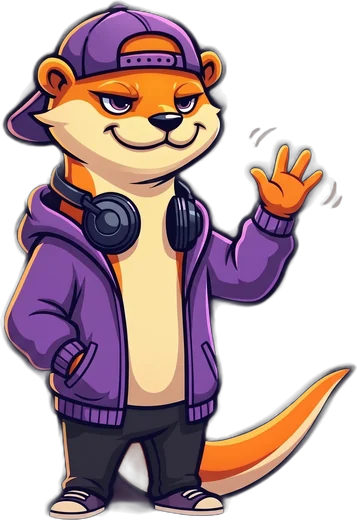
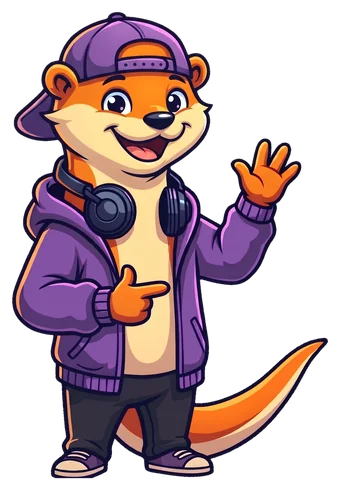
Mise à jour du site (2026-11-11)

diff --git a/index.html b/index.html
@@ -20,8 +20,8 @@
   <link rel="icon" href="favicon-32.png" type="image/png" sizes="32x32">
   <link rel="apple-touch-icon" href="apple-touch-icon.png">
   <link rel="preload" href="polices/archivo.woff2" as="font" type="font/woff2" crossorigin>
-  <link rel="preload" href="loutre/canape.webp" as="image">
-  <link rel="stylesheet" href="style.css?v=21">
+  <link rel="preload" href="loutre/accueil-1600.webp" as="image" imagesrcset="loutre/accueil-1000.webp 1000w, loutre/accueil-1600.webp 1600w, loutre/accueil-2400.webp 2400w" imagesizes="100vw">
+  <link rel="stylesheet" href="style.css?v=22">
   <script src="anim.js?v=3"></script>
 </head>
 <body>
@@ -41,7 +41,7 @@
 
   <main>
     <section class="hero">
-      <div class="sky" aria-hidden="true"><span class="moon"></span></div>
+      <img class="hero-bg" src="loutre/accueil-1600.webp" srcset="loutre/accueil-1000.webp 1000w, loutre/accueil-1600.webp 1600w, loutre/accueil-2400.webp 2400w" sizes="100vw" width="1600" height="893" fetchpriority="high" alt="La squad de loutres en pleine soirée jeux : la mascotte tend une manette pour t'inviter à jouer">
       <div class="wrap">
         <div class="hero-txt">
           <h1 class="load">Trouvez à quoi jouer <span class="hl">ensemble</span></h1>
@@ -51,11 +51,7 @@
             <a class="btn ghost" href="#fonctions">Voir les fonctionnalités</a>
           </div>
         </div>
-        <div class="scene">
-          <img class="o canape flip" src="loutre/canape.webp" alt="La loutre de La Squad, casquette violette et manette en main, sur son canapé" width="900" height="877">
-        </div>
       </div>
-      <svg class="skyline" viewBox="0 0 1400 220" preserveAspectRatio="xMidYMax slice" aria-hidden="true"><g class="far"><rect x="0" y="120" width="70" height="100"/><rect class="w2" x="8" y="152" width="6" height="9" rx="1"/><rect class="w3" x="8" y="170" width="6" height="9" rx="1"/><rect x="70" y="96" width="60" height="124"/><rect class="w3" x="110" y="146" width="6" height="9" rx="1"/><rect x="130" y="130" width="90" height="90"/><rect class="w2" x="138" y="144" width="6" height="9" rx="1"/><rect class="w1" x="154" y="180" width="6" height="9" rx="1"/><rect class="w1" x="202" y="198" width="6" height="9" rx="1"/><rect x="220" y="80" width="50" height="140"/><rect x="270" y="110" width="80" height="110"/><rect class="w2" x="310" y="124" width="6" height="9" rx="1"/><rect class="w2" x="278" y="160" width="6" height="9" rx="1"/><rect class="w3" x="326" y="178" width="6" height="9" rx="1"/><rect x="350" y="60" width="66" height="160"/><rect class="w1" x="390" y="74" width="6" height="9" rx="1"/><rect class="w3" x="358" y="146" width="6" height="9" rx="1"/><rect class="w2" x="374" y="164" width="6" height="9" rx="1"/><rect class="w3" x="374" y="182" width="6" height="9" rx="1"/><rect x="416" y="100" width="100" height="120"/><rect class="w2" x="472" y="132" width="6" height="9" rx="1"/><rect class="w2" x="472" y="150" width="6" height="9" rx="1"/><rect class="w1" x="424" y="186" width="6" height="9" rx="1"/><rect x="516" y="70" width="58" height="150"/><rect x="574" y="120" width="90" height="100"/><rect class="w1" x="614" y="152" width="6" height="9" rx="1"/><rect class="w3" x="582" y="188" width="6" height="9" rx="1"/><rect x="664" y="84" width="70" height="136"/><rect class="w2" x="672" y="116" width="6" height="9" rx="1"/><rect class="w3" x="704" y="116" width="6" height="9" rx="1"/><rect class="w3" x="704" y="152" width="6" height="9" rx="1"/><rect x="734" y="104" width="110" height="116"/><rect class="w1" x="822" y="136" width="6" height="9" rx="1"/><rect class="w2" x="742" y="154" width="6" height="9" rx="1"/><rect class="w1" x="742" y="190" width="6" height="9" rx="1"/><rect x="844" y="66" width="60" height="154"/><rect class="w1" x="868" y="134" width="6" height="9" rx="1"/><rect class="w3" x="868" y="188" width="6" height="9" rx="1"/><rect x="904" y="118" width="84" height="102"/><rect class="w1" x="976" y="132" width="6" height="9" rx="1"/><rect class="w2" x="944" y="150" width="6" height="9" rx="1"/><rect x="988" y="90" width="76" height="130"/><rect class="w1" x="1044" y="158" width="6" height="9" rx="1"/><rect class="w3" x="1028" y="194" width="6" height="9" rx="1"/><rect class="w3" x="1044" y="194" width="6" height="9" rx="1"/><rect x="1064" y="126" width="96" height="94"/><rect class="w2" x="1120" y="140" width="6" height="9" rx="1"/><rect class="w1" x="1120" y="158" width="6" height="9" rx="1"/><rect class="w1" x="1136" y="158" width="6" height="9" rx="1"/><rect class="w1" x="1136" y="194" width="6" height="9" rx="1"/><rect x="1160" y="100" width="64" height="120"/><rect class="w2" x="1184" y="114" width="6" height="9" rx="1"/><rect class="w3" x="1200" y="114" width="6" height="9" rx="1"/><rect x="1224" y="74" width="90" height="146"/><rect class="w1" x="1248" y="88" width="6" height="9" rx="1"/><rect class="w1" x="1296" y="106" width="6" height="9" rx="1"/><rect class="w1" x="1296" y="124" width="6" height="9" rx="1"/><rect x="1314" y="112" width="70" height="108"/><rect class="w3" x="1370" y="126" width="6" height="9" rx="1"/><rect class="w1" x="1322" y="180" width="6" height="9" rx="1"/></g><g class="near"><rect x="0" y="150" width="110" height="70"/><rect class="w3" x="24" y="164" width="6" height="9" rx="1"/><rect class="w3" x="40" y="164" width="6" height="9" rx="1"/><rect class="w3" x="24" y="182" width="6" height="9" rx="1"/><rect class="w3" x="72" y="182" width="6" height="9" rx="1"/><rect class="w1" x="8" y="200" width="6" height="9" rx="1"/><rect class="w3" x="56" y="200" width="6" height="9" rx="1"/><rect class="w3" x="88" y="200" width="6" height="9" rx="1"/><rect x="110" y="140" width="70" height="80"/><rect class="w2" x="118" y="154" width="6" height="9" rx="1"/><rect class="w2" x="118" y="190" width="6" height="9" rx="1"/><rect x="180" y="160" width="100" height="60"/><rect class="w1" x="268" y="174" width="6" height="9" rx="1"/><rect x="280" y="126" width="80" height="94"/><rect class="w2" x="304" y="158" width="6" height="9" rx="1"/><rect class="w2" x="304" y="176" width="6" height="9" rx="1"/><rect class="w1" x="320" y="176" width="6" height="9" rx="1"/><rect x="360" y="146" width="120" height="74"/><rect class="w3" x="416" y="160" width="6" height="9" rx="1"/><rect class="w1" x="448" y="160" width="6" height="9" rx="1"/><rect class="w2" x="368" y="178" width="6" height="9" rx="1"/><rect class="w1" x="448" y="178" width="6" height="9" rx="1"/><rect x="480" y="118" width="90" height="102"/><rect class="w1" x="552" y="132" width="6" height="9" rx="1"/><rect class="w1" x="488" y="150" width="6" height="9" rx="1"/><rect class="w2" x="552" y="150" width="6" height="9" rx="1"/><rect class="w1" x="536" y="168" width="6" height="9" rx="1"/><rect class="w1" x="504" y="204" width="6" height="9" rx="1"/><rect x="570" y="150" width="76" height="70"/><rect class="w1" x="610" y="182" width="6" height="9" rx="1"/><rect class="w1" x="626" y="200" width="6" height="9" rx="1"/><rect x="646" y="132" width="120" height="88"/><rect class="w2" x="670" y="164" width="6" height="9" rx="1"/><rect class="w3" x="718" y="164" width="6" height="9" rx="1"/><rect class="w1" x="734" y="164" width="6" height="9" rx="1"/><rect class="w1" x="734" y="182" width="6" height="9" rx="1"/><rect x="766" y="160" width="84" height="60"/><rect class="w2" x="774" y="174" width="6" height="9" rx="1"/><rect class="w3" x="838" y="174" width="6" height="9" rx="1"/><rect class="w2" x="838" y="192" width="6" height="9" rx="1"/><rect x="850" y="128" width="100" height="92"/><rect class="w1" x="874" y="160" width="6" height="9" rx="1"/><rect class="w3" x="858" y="178" width="6" height="9" rx="1"/><rect class="w3" x="906" y="178" width="6" height="9" rx="1"/><rect class="w1" x="922" y="178" width="6" height="9" rx="1"/><rect class="w3" x="906" y="196" width="6" height="9" rx="1"/><rect class="w1" x="922" y="196" width="6" height="9" rx="1"/><rect x="950" y="152" width="116" height="68"/><rect class="w2" x="958" y="166" width="6" height="9" rx="1"/><rect class="w1" x="958" y="184" width="6" height="9" rx="1"/><rect class="w3" x="1006" y="184" width="6" height="9" rx="1"/><rect class="w1" x="1022" y="202" width="6" height="9" rx="1"/><rect x="1066" y="138" width="90" height="82"/><rect class="w1" x="1074" y="170" width="6" height="9" rx="1"/><rect class="w3" x="1138" y="170" width="6" height="9" rx="1"/><rect x="1156" y="124" width="110" height="96"/><rect class="w2" x="1180" y="138" width="6" height="9" rx="1"/><rect class="w3" x="1196" y="156" width="6" height="9" rx="1"/><rect class="w3" x="1212" y="156" width="6" height="9" rx="1"/><rect class="w1" x="1164" y="174" width="6" height="9" rx="1"/><rect class="w2" x="1244" y="192" width="6" height="9" rx="1"/><rect x="1266" y="156" width="80" height="64"/><rect class="w3" x="1306" y="170" width="6" height="9" rx="1"/><rect x="1346" y="142" width="90" height="78"/></g><rect class="roof" x="0" y="206" width="1400" height="14"/></svg>
     </section>
 
     <section class="phares">
@@ -95,7 +91,7 @@
             <li class="reveal"><h3>Rejoignez le vocal</h3><p>Tapez <code>/nosjeux</code> et choisissez.</p></li>
           </ol>
         </div>
-        <img class="steps-otter reveal-l" src="loutre/coucou.webp" alt="" width="357" height="520" loading="lazy">
+        <img class="steps-otter reveal-l" src="loutre/coucou.webp" alt="" width="340" height="490" loading="lazy">
       </div>
     </section>
 
@@ -123,7 +119,7 @@
 <div class="vc-arrow"><span class="slash">/nosjeux</span></div>
 <div class="vc-result"><img class="e" src="emojis/pad.png" alt=""><span><b>7 jeux</b> que vous avez tous les quatre</span></div>
 </figure>
-          <img class="mascot right flip" src="loutre/pouf.webp" alt="" width="463" height="520" loading="lazy">
+          <img class="mascot right" src="loutre/pouf.webp" alt="" width="360" height="403" loading="lazy">
         </div>
       </div>
     </section>
@@ -147,7 +143,7 @@
 <div class="embed"><div class="k"><img class="e" src="emojis/pad.png" alt=""> Jeu 1 sur 7 en commun · 4 joueurs</div><div class="t">Deep Rock Galactic</div><div>Coop jusqu'à 4 · mineurs nains dans l'espace</div><div class="tile g1">DEEP ROCK GALACTIC</div><div class="s"><img class="e" src="emojis/square_blue.png" alt=""> Steam · <img class="e" src="emojis/square.png" alt=""> Game Pass</div></div>
 <div class="dbtn"><span>◀</span><span>▶</span><span><img class="e" src="emojis/dice.png" alt=""> Au hasard</span><span><img class="e" src="emojis/people.png" alt=""> Joueurs</span></div>
 </figure>
-          <img class="mascot left" src="loutre/manette.webp" alt="" width="309" height="560" loading="lazy">
+          <img class="mascot left" src="loutre/manette.webp" alt="" width="320" height="476" loading="lazy">
         </div>
       </div>
     </section>
@@ -173,7 +169,7 @@
 <div class="who"><img class="ava" src="logo-96.png" alt=""><b>La Squad</b> · message privé</div>
 <div class="embed"><div class="k"><img class="e" src="emojis/bell.png" alt=""> Rappel · dans 30 min</div><div><b>Valheim</b> commence à 21 h avec Inès, Théo et Lucas.</div></div>
 </figure>
-          <img class="mascot right flip" src="loutre/megaphone.webp" alt="" width="434" height="560" loading="lazy">
+          <img class="mascot right" src="loutre/megaphone.webp" alt="" width="350" height="445" loading="lazy">
         </div>
       </div>
     </section>
@@ -196,7 +192,7 @@
 <div class="embed v2"><div class="t">Lucas</div><div class="s"><img class="e" src="emojis/square_blue.png" alt=""> Steam : <span class="lk">lucas_fr</span><br><img class="e" src="emojis/square.png" alt=""> Game Pass : <img class="e" src="emojis/check.png" alt="oui"></div><hr><div class="s"><img class="e" src="emojis/pad.png" alt=""> Joue en ce moment à <b>Helldivers 2</b><br><img class="e" src="emojis/target.png" alt=""> Action · Coop · Survie</div><hr><div class="s"><img class="e" src="emojis/cal.png" alt=""> Prochaine soirée : <span class="lk">Valheim</span> · samedi 21 h<br><img class="e" src="emojis/people.png" alt=""> <b>12 jeux</b> en commun avec toi</div>
 <div class="gallery"><div class="tile g3">HELLDIVERS 2</div><div class="tile g2">VALHEIM</div><div class="tile g1">DEEP ROCK</div><div class="tile g4">LETHAL CO.</div></div></div>
 </figure>
-          <img class="mascot left" src="loutre/telephone.webp" alt="" width="437" height="560" loading="lazy">
+          <img class="mascot left" src="loutre/telephone.webp" alt="" width="400" height="463" loading="lazy">
         </div>
       </div>
     </section>
@@ -221,7 +217,7 @@
 <div class="who"><img class="ava" src="logo-96.png" alt=""><b>La Squad</b> · #bons-plans</div>
 <div class="embed"><div class="k"><img class="e" src="emojis/gift.png" alt=""> Offerts cette semaine</div><div><b>Epic</b> · Hades · <b>Steam</b> · Brotato</div></div>
 </figure>
-          <img class="mascot right flip" src="loutre/clin.webp" alt="" width="385" height="560" loading="lazy">
+          <img class="mascot right" src="loutre/clin.webp" alt="" width="300" height="367" loading="lazy">
         </div>
       </div>
     </section>
@@ -229,7 +225,7 @@
 
     <section class="block">
       <div class="wrap">
-        <div class="sec-head peek reveal"><h2 class="h2">Et aussi</h2><img class="flip" src="loutre/pizza.webp" alt="" width="416" height="600" loading="lazy"></div>
+        <div class="sec-head peek reveal"><h2 class="h2">Et aussi</h2><img class="flip" src="loutre/pizza.webp" alt="" width="240" height="235" loading="lazy"></div>
         <div class="minis">
           <div class="mini reveal"><img class="e" src="emojis/search.png" alt=""><code>/jeu</code><p>La fiche d'un jeu : description, prix, avis Steam et qui l'a déjà.</p></div>
           <div class="mini reveal"><img class="e" src="emojis/trophy.png" alt=""><code>/recap</code><p>Le récap du mois : soirées, jeux joués et MVP de la squad.</p></div>
@@ -265,7 +261,7 @@
           <p>Les réponses aux questions qu'on nous pose le plus.</p>
           <div class="faq-otter">
             <span class="qm q1" aria-hidden="true">?</span><span class="qm q2" aria-hidden="true">?</span><span class="qm q3" aria-hidden="true">?</span><span class="qm q4" aria-hidden="true">?</span>
-            <img src="loutre/surpris.webp" alt="" width="303" height="440" loading="lazy">
+            <img src="loutre/surpris.webp" alt="" width="320" height="460" loading="lazy">
           </div>
         </div>
         <div class="faq reveal-r">
@@ -278,10 +274,23 @@
       </div>
     </section>
 
+    <section class="block cta">
+      <div class="wrap">
+        <div class="cta-box">
+          <img class="cta-otter reveal-l" src="loutre/canape.webp" alt="" width="760" height="742" loading="lazy">
+          <div class="cta-txt reveal-r">
+            <h2 class="h2">Ta squad t'attend</h2>
+            <p>Ajoute La Squad à ton serveur et lancez la partie ce soir.</p>
+            <a class="btn" href="https://discord.com/oauth2/authorize?client_id=1562905950069727302&amp;scope=bot+applications.commands&amp;permissions=19456">Ajouter à Discord</a>
+          </div>
+        </div>
+      </div>
+    </section>
+
   </main>
 
   <footer>
-    <img class="foot-otter" src="loutre/allongee.webp" alt="" width="440" height="286" loading="lazy">
+    <img class="foot-otter" src="loutre/allongee.webp" alt="" width="460" height="344" loading="lazy">
     <div class="wrap">
       <nav class="foot-links" aria-label="Informations">
         <a href="cgu.html">Conditions d'utilisation</a>

diff --git a/style.css b/style.css
@@ -75,41 +75,18 @@ nav a:not(.btn):hover { color: var(--text); }
 nav a:not(.btn):hover::after { transform: scaleX(1); }
 
 /* ------------------------------------------------- haut de page : la scène */
-.hero { position: relative; overflow: hidden; background: linear-gradient(180deg, #0d0a15 0%, #1a1330 60%, #2b1e48 100%); }
-.sky { position: absolute; inset: 0; pointer-events: none;
-  background:
-    radial-gradient(1.5px 1.5px at 8% 18%, #fff8 50%, transparent 51%),
-    radial-gradient(1.5px 1.5px at 22% 9%, #fff6 50%, transparent 51%),
-    radial-gradient(2px 2px at 35% 30%, #fff7 50%, transparent 51%),
-    radial-gradient(1.5px 1.5px at 47% 12%, #fff5 50%, transparent 51%),
-    radial-gradient(2px 2px at 58% 26%, #fff8 50%, transparent 51%),
-    radial-gradient(1.5px 1.5px at 66% 8%, #fff6 50%, transparent 51%),
-    radial-gradient(2px 2px at 92% 34%, #fff7 50%, transparent 51%),
-    radial-gradient(1.5px 1.5px at 14% 44%, #fff4 50%, transparent 51%),
-    radial-gradient(1.5px 1.5px at 41% 52%, #fff4 50%, transparent 51%),
-    radial-gradient(1.5px 1.5px at 97% 12%, #fff6 50%, transparent 51%),
-    radial-gradient(60% 50% at 72% 100%, rgba(139, 92, 246, .35), transparent 70%); }
-.moon { position: absolute; top: 9%; right: 9%; width: 120px; aspect-ratio: 1; border-radius: 50%;
-  background: radial-gradient(circle at 38% 36%, #fff6e6, #ffe6c2 55%, #f3cf9c);
-  box-shadow: 0 0 60px 18px rgba(255, 230, 194, .16), 0 0 160px 60px rgba(255, 230, 194, .07); }
-.hero > .wrap { position: relative; z-index: 2; display: grid; grid-template-columns: minmax(0, 1fr) minmax(0, 1.05fr); gap: 32px; align-items: center; padding-top: 72px; }
-.hero-txt { padding-bottom: 120px; }
+.hero { position: relative; overflow: hidden; background: var(--night); min-height: clamp(560px, 52vw, 800px); display: flex; align-items: center; }
+.hero-bg { position: absolute; inset: 0; width: 100%; height: 100%; object-fit: cover; object-position: right center; }
+.hero::before { content: ""; position: absolute; inset: 0; z-index: 1; pointer-events: none;
+  background: linear-gradient(90deg, rgba(18, 14, 26, .88) 0%, rgba(18, 14, 26, .72) 30%, rgba(18, 14, 26, 0) 56%),
+              linear-gradient(0deg, var(--night) 0, rgba(18, 14, 26, 0) 16%); }
+.hero > .wrap { position: relative; z-index: 2; width: 100%; padding-block: 72px 110px; }
+.hero-txt { max-width: 600px; }
 h1 { font-size: clamp(42px, 5.6vw, 76px); line-height: 1.02; margin: 0 0 22px; font-weight: 850; letter-spacing: -.01em; text-wrap: balance; }
 .hl { background: linear-gradient(90deg, var(--orange), var(--gold)); -webkit-background-clip: text; background-clip: text; color: transparent; }
 .hero p { font-size: 19px; color: var(--muted); margin: 0 0 32px; max-width: 32rem; }
 .actions { display: flex; gap: 14px; align-items: center; flex-wrap: wrap; }
 
-.scene { position: relative; align-self: end; aspect-ratio: 1 / .82; margin-bottom: 1.4%; }
-.scene .o { position: absolute; bottom: 0; height: auto; filter: drop-shadow(0 18px 22px rgba(0, 0, 0, .45)); }
-.scene .canape { width: 80%; left: 10%; z-index: 2; }
-.skyline { position: absolute; left: 0; right: 0; bottom: 0; width: 100%; height: 190px; z-index: 1; display: block; }
-.skyline .far { fill: #1f1734; }
-.skyline .near { fill: #281d42; }
-.skyline .far .w1, .skyline .far .w2, .skyline .far .w3 { fill: #3a2c5e; }
-.skyline .near .w1 { fill: #ffb020; opacity: .7; }
-.skyline .near .w2 { fill: #c4b5fd; opacity: .55; }
-.skyline .near .w3 { fill: #ff7a1a; opacity: .6; }
-.skyline .roof { fill: #34285a; }
 
 /* ------------------------------------------------- commandes phares : /soiree en grand, les autres à côté */
 .phares .wrap { padding-block: 88px 24px; }
@@ -154,10 +131,20 @@ h1 { font-size: clamp(42px, 5.6vw, 76px); line-height: 1.02; margin: 0 0 22px; f
 .visual { position: relative; padding: 40px 0 40px 0; }
 .visual::before { content: ""; position: absolute; inset: 0 -10%; background: radial-gradient(50% 50% at 50% 50%, rgba(139, 92, 246, .22), transparent 70%); z-index: -1; }
 .feat.rev .visual::before { background: radial-gradient(50% 50% at 50% 50%, rgba(255, 122, 26, .16), transparent 70%); }
-.mascot { position: absolute; bottom: -12px; width: auto; height: 62%; max-height: 300px; filter: drop-shadow(0 16px 20px rgba(0, 0, 0, .5)); z-index: 2; pointer-events: none; }
+.mascot { position: absolute; bottom: -12px; width: 170px; height: auto; filter: drop-shadow(0 16px 20px rgba(0, 0, 0, .5)); z-index: 2; pointer-events: none; }
 .mascot.left { left: -12%; }
 .mascot.right { right: -12%; }
-.squad .mascot { height: 56%; }   /* place d'origine, sans dépasser sur le texte */
+/* Le principe : sur son pouf, en bas à droite de la carte qu'elle chevauche */
+.squad .mascot { width: 180px; right: -5%; bottom: -26px; }
+/* /nosjeux : entre le texte et la carte */
+.feat:not([id]) .mascot { width: 160px; }
+/* /soiree : à droite de l'invitation, le mégaphone vers la carte */
+#soiree .mascot { width: 175px; }
+/* /profil : accoudée au bord gauche de la carte */
+#profil .shot { margin-inline: 18% 0; }
+#profil .mascot { width: 200px; left: calc(18% - 160px); bottom: 10px; }
+/* Bons plans : assise sur le bord haut de la carte, les jambes devant (le siège est à 95 % de sa largeur depuis le haut) */
+#promos .mascot { width: 150px; top: calc(40px - 143px); bottom: auto; right: calc(12% + 12px); }
 .feat .shot { margin-inline: 12% 4%; }
 .feat.rev .shot { margin-inline: 4% 12%; }
 
@@ -222,7 +209,7 @@ section.block .wrap { padding-block: 88px; border-top: 1px solid var(--line); }
 .steps li::before { content: counter(s); display: grid; place-items: center; width: 40px; height: 40px; border-radius: 12px; background: var(--orange); color: #1a0d00; font-weight: 850; margin-bottom: 14px; }
 .steps h3 { margin: 0 0 4px; font-size: 20px; }
 .steps p { margin: 0; color: var(--muted); font-size: 15px; }
-.steps-otter { order: -1; width: auto; height: 270px; margin: 0 -8px -88px -12px; filter: drop-shadow(0 16px 20px rgba(0, 0, 0, .5)); }
+.steps-otter { order: -1; width: 170px; height: auto; margin: 0 -8px -88px -12px; filter: drop-shadow(0 16px 20px rgba(0, 0, 0, .5)); }
 
 /* Les commandes : deux colonnes de lignes « commande · description » */
 .commands { margin: 0; display: grid; grid-template-columns: repeat(2, minmax(0, 1fr)); gap: 0 56px; }
@@ -232,7 +219,7 @@ section.block .wrap { padding-block: 88px; border-top: 1px solid var(--line); }
 .commands dt:hover code { transform: translateX(3px); }
 .sec-head { display: flex; align-items: end; justify-content: space-between; gap: 16px; }
 /* « Et aussi » : la loutre passe la tête derrière la dernière carte */
-.sec-head.peek img { height: 170px; margin: 0 4% -78px 0; position: relative; z-index: 0; }
+.sec-head.peek img { width: 120px; height: auto; margin: 0 4% -2px 0; position: relative; z-index: 2; }
 .minis { position: relative; z-index: 1; }
 .sec-head .h2 { margin-bottom: 32px; }
 .sec-head img { width: auto; height: 120px; margin-bottom: -6px; }
@@ -241,7 +228,7 @@ section.block .wrap { padding-block: 88px; border-top: 1px solid var(--line); }
 .faq-side { display: grid; gap: 4px; justify-items: start; }
 .faq-side .h2 { margin-bottom: 8px; }
 .faq-side p { margin: 0; color: var(--muted); max-width: 26ch; }
-.faq-side img { width: auto; height: 230px; filter: drop-shadow(0 16px 20px rgba(0, 0, 0, .5)); }
+.faq-side img { width: 160px; height: auto; filter: drop-shadow(0 16px 20px rgba(0, 0, 0, .5)); }
 /* Points d'interrogation orange autour de la loutre surprise */
 .faq-otter { position: relative; margin-top: 20px; padding-inline: 56px 64px; }
 .qm { position: absolute; font-weight: 900; font-stretch: 112%; line-height: 1; background: linear-gradient(160deg, var(--gold), var(--orange)); -webkit-background-clip: text; background-clip: text; color: transparent; filter: drop-shadow(0 6px 10px rgba(255, 122, 26, .35)); pointer-events: none; }
@@ -260,6 +247,13 @@ details[open] summary { color: var(--gold); }
 details p { margin: 0; padding: 0 18px 16px; color: var(--muted); font-size: 15px; }
 details a { color: var(--gold); }
 
+/* Appel final : la loutre tend la manette vers le texte */
+.cta .wrap { border-top: 0; }
+.cta-box { display: grid; grid-template-columns: minmax(0, .9fr) minmax(0, 1.1fr); gap: 48px; align-items: center; padding: 40px 56px; border-radius: 24px; border: 1px solid var(--line);
+  background: radial-gradient(60% 90% at 20% 60%, rgba(139, 92, 246, .28), transparent 70%), radial-gradient(50% 80% at 95% 10%, rgba(255, 122, 26, .12), transparent 70%), var(--paper); }
+.cta-otter { width: 100%; max-width: 380px; height: auto; justify-self: center; filter: drop-shadow(0 16px 20px rgba(0, 0, 0, .5)); }
+.cta-txt .h2 { margin-bottom: 12px; }
+.cta-txt p { margin: 0 0 28px; color: var(--muted); font-size: 19px; }
 
 /* --------------------------------------------------------------- bas de page */
 /* La loutre allongée avec sa manette est posée sur le bord du haut, à droite */
@@ -285,6 +279,7 @@ footer { position: relative; margin-top: 120px; border-top: 1px solid var(--line
 @keyframes up { from { opacity: 0; transform: translateY(44px); } to { opacity: 1; transform: none; } }
 @keyframes from-l { from { opacity: 0; transform: translateX(-70px); } to { opacity: 1; transform: none; } }
 @keyframes from-r { from { opacity: 0; transform: translateX(70px); } to { opacity: 1; transform: none; } }
+@keyframes fade { from { opacity: 0; } to { opacity: 1; } }
 @keyframes pop { from { opacity: 0; transform: translateY(30px) scale(.92); } to { opacity: 1; transform: none; } }
 
 @media (prefers-reduced-motion: no-preference) {
@@ -292,8 +287,7 @@ footer { position: relative; margin-top: 120px; border-top: 1px solid var(--line
   .load { animation: up .9s var(--out) both; }
   .load.d1 { animation-delay: .12s; }
   .load.d2 { animation-delay: .24s; }
-  .scene .o { animation: pop .9s var(--out) both; }
-  .scene .canape { animation-delay: .25s; }
+  .hero-bg { animation: fade 1.2s ease both; }
 
 /* En défilant : chaque rubrique (texte, exemple et loutre ensemble) se cache tant qu'elle n'est pas à l'écran,
    puis s'anime d'un coup quand elle arrive (anim.js ajoute « anim » à la page, « vu » à chaque rubrique à l'écran,
@@ -318,10 +312,12 @@ footer { position: relative; margin-top: 120px; border-top: 1px solid var(--line
   .hero > .wrap, .feat .wrap, .faq-wrap { grid-template-columns: 1fr; gap: 40px; }
   .commands { grid-template-columns: 1fr; }
   .faq-otter { display: none; }
-  .hero > .wrap { padding-top: 48px; }
-  .hero-txt { padding-bottom: 0; }
-  .scene { width: min(560px, 100%); justify-self: center; }
-  .moon { width: 80px; top: 4%; right: 6%; }
+  .hero { display: flex; flex-direction: column; align-items: stretch; min-height: 0; }
+  .hero::before { display: none; }
+  .hero > .wrap { padding-block: 48px 32px; }
+  .hero-bg { position: relative; order: 2; height: auto; aspect-ratio: 4 / 3; object-position: 62% center; }
+  .cta-box { grid-template-columns: 1fr; padding: 32px 24px; gap: 24px; text-align: center; }
+  .cta-otter { max-width: 260px; }
   .feat.rev .txt { order: 0; }
   .feat .wrap { padding-block: 72px; }
   .minis { grid-template-columns: 1fr 1fr; }
@@ -335,8 +331,11 @@ footer { position: relative; margin-top: 120px; border-top: 1px solid var(--line
   .foot-otter { width: 160px; }
   .une { position: static; justify-self: start; }
   .notif:nth-child(2) { margin-left: 0; }
-  .skyline { height: 120px; }
-  .mascot { height: 46%; }
+  .mascot, .feat:not([id]) .mascot, #soiree .mascot, .squad .mascot { width: 120px; }
+  #profil .shot { margin-inline: 0; }
+  #profil .mascot { width: 140px; left: -4%; }
+  #promos .mascot { width: 110px; top: calc(40px - 105px); right: 8%; }
+  .hero-bg { aspect-ratio: 1 / 1; }
   .mascot.left { left: -4%; }
   .mascot.right { right: -4%; }
   .feat .shot, .feat.rev .shot { margin-inline: 0; }

diff --git a/cgu.html b/cgu.html
@@ -11,7 +11,7 @@
   <link rel="icon" href="favicon.ico" sizes="any">
   <link rel="icon" href="favicon-32.png" type="image/png" sizes="32x32">
   <link rel="apple-touch-icon" href="apple-touch-icon.png">
-  <link rel="stylesheet" href="style.css?v=21">
+  <link rel="stylesheet" href="style.css?v=22">
 </head>
 <body>
   <header class="top">
@@ -121,7 +121,7 @@
   </main>
 
   <footer>
-    <img class="foot-otter" src="loutre/allongee.webp" alt="" width="440" height="286" loading="lazy">
+    <img class="foot-otter" src="loutre/allongee.webp" alt="" width="460" height="344" loading="lazy">
     <div class="wrap">
       <nav class="foot-links" aria-label="Informations">
         <a href="cgu.html">Conditions d'utilisation</a>

diff --git a/confidentialite.html b/confidentialite.html
@@ -11,7 +11,7 @@
   <link rel="icon" href="favicon.ico" sizes="any">
   <link rel="icon" href="favicon-32.png" type="image/png" sizes="32x32">
   <link rel="apple-touch-icon" href="apple-touch-icon.png">
-  <link rel="stylesheet" href="style.css?v=21">
+  <link rel="stylesheet" href="style.css?v=22">
 </head>
 <body>
   <header class="top">
@@ -160,7 +160,7 @@
   </main>
 
   <footer>
-    <img class="foot-otter" src="loutre/allongee.webp" alt="" width="440" height="286" loading="lazy">
+    <img class="foot-otter" src="loutre/allongee.webp" alt="" width="460" height="344" loading="lazy">
     <div class="wrap">
       <nav class="foot-links" aria-label="Informations">
         <a href="cgu.html">Conditions d'utilisation</a>
